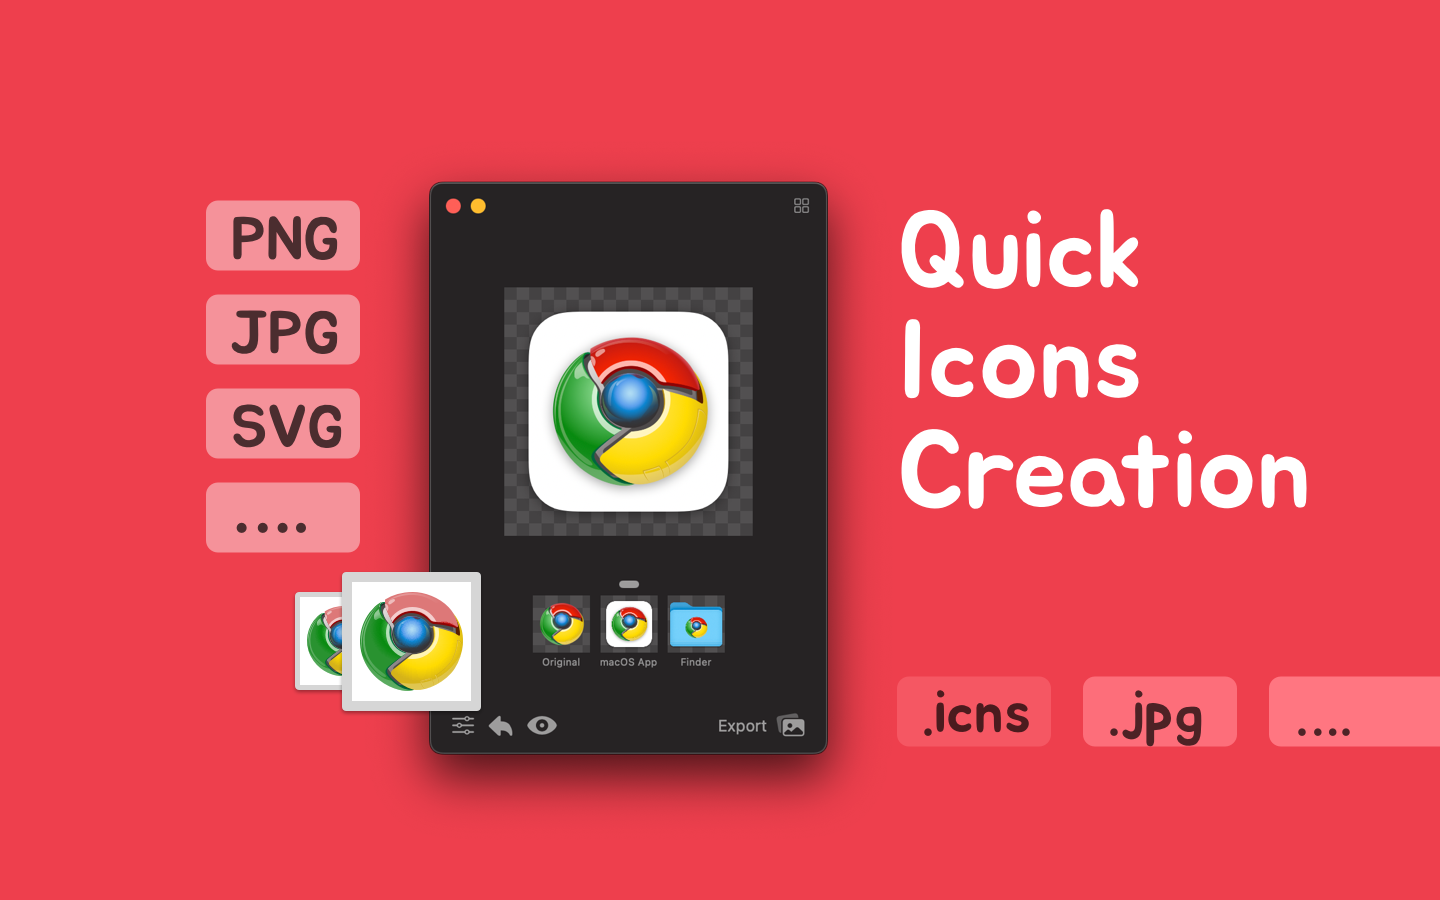
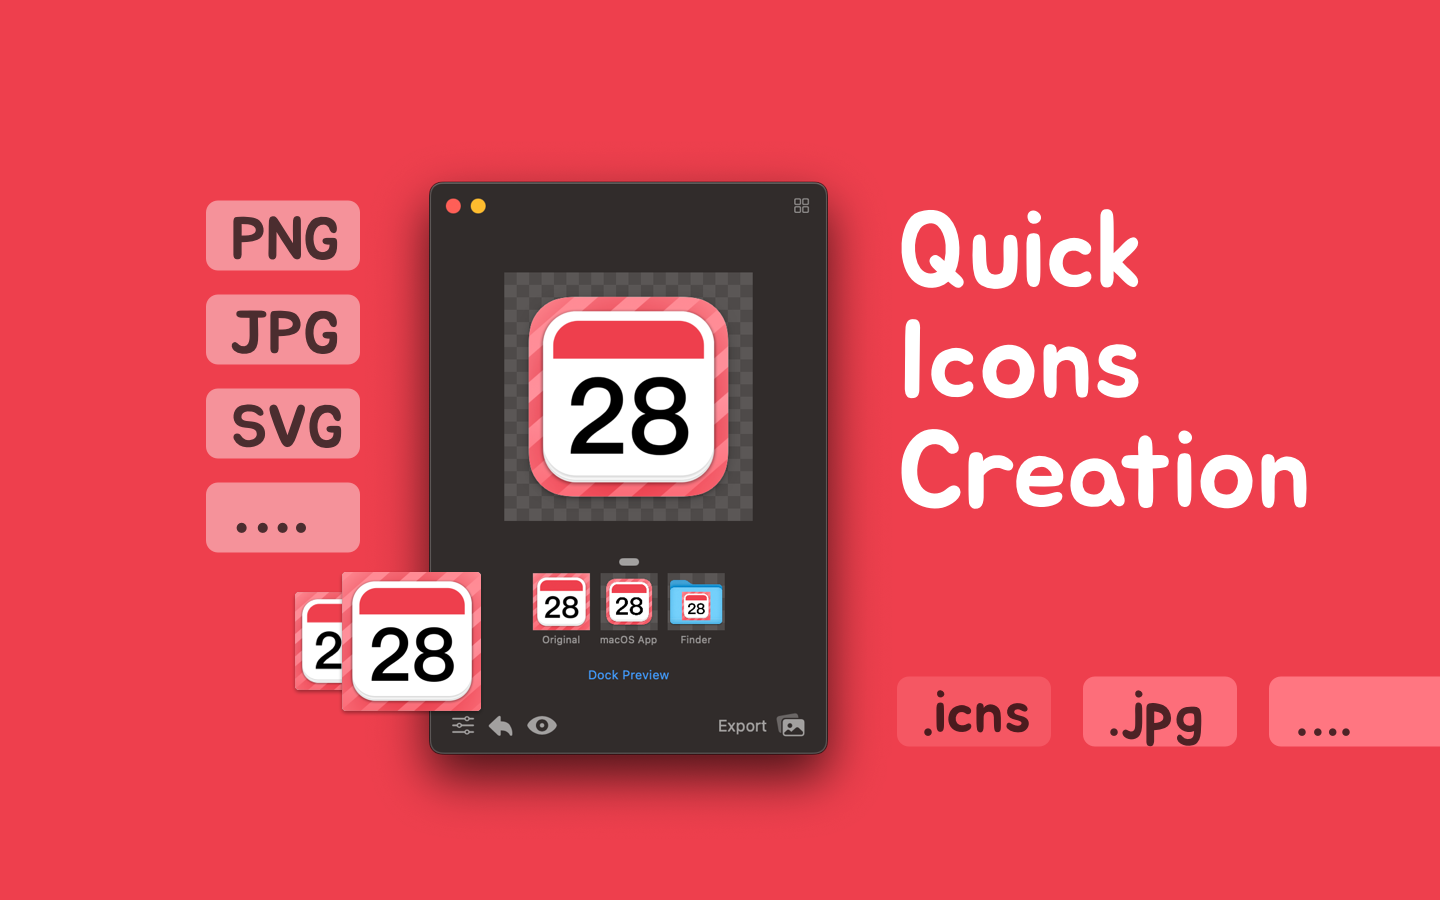
released v1.2.0

Changed region(s): [[0.1875, 0.28, 0.5312, 0.8089]]

diff --git a/README.md b/README.md
@@ -26,13 +26,13 @@
 
 ![Iconed 4](./assets/screenshots-4.png)
 
-Easily create and personalize icons from images, supporting macOS and iOS icon generation, folder icon creation and setting, and providing icon format conversion features.
+Effortlessly create and personalize icons from images, supporting macOS and iOS icon generation, folder icon creation and setting, and icon format conversion features.
 
-- **Folder Icons**: Quickly customize and set your folder icons with simple operations, making your folders more personalized and unique.
-- **App Icons**: Compatible with all operating systems, supporting the import of any image and converting it into a complete, usable app icon. Specifically tailored for Apple platforms (iOS and macOS), supporting various required icon formats to meet different application scenarios.
-- **Icon Format Conversion**: Easily convert icons to other formats, supporting common icon formats such as PNG, JPEG, TIFF, etc., making it convenient to switch between different platforms.
+- **Folder Icons**: Quickly customize and set your folder icons through simple operations, making your folders more personalized and unique.
+- **Application Icons**: Support importing any image and converting it into complete, usable application icons with Dock preview. Specially adapted for Apple platforms (iOS and macOS), supporting various required icon formats to meet different application scenarios.
+- **Icon Format Conversion**: Easily convert icons to other formats, supporting common icon formats such as PNG, JPEG, TIFF, etc., allowing you to switch between different platforms effortlessly.
 
-This tool helps you create any type of icon for your application, automatically converting it to the required 1x, 2x (retina), and 3x formats, and generating a complete image set to ensure perfect display on all devices and resolutions.
+This tool helps you create any icons for applications, automatically converting them into required 1x, 2x (Retina), and 3x formats, and generating a complete image set to ensure perfect display on all devices and resolutions.
 
 ## URL Scheme
 

diff --git a/README.zh.md b/README.zh.md
@@ -29,7 +29,7 @@
 轻松从图片创建和个性化图标，支持 macOS 和 iOS 图标生成、文件夹图标创建与设置，并提供图标格式转换功能。
 
 - **文件夹图标**：通过简单的操作，快速自定义并设置您的文件夹图标，让您的文件夹更加个性化和独特。
-- **应用程序图标**：兼容所有操作系统，支持将任意图像导入并转换为完整、可用的应用程序图标。特别适配 Apple 平台（iOS 和 macOS），支持各种所需图标格式，满足不同应用场景。
+- **应用程序图标**：支持将任意图像导入并转换为完整、可用的应用程序图标，并且可以在 Dock 上预览。特别适配 Apple 平台（iOS 和 macOS），支持各种所需图标格式，满足不同应用场景。
 - **图标格式转换**：轻松将图标转换为其他格式，支持常见的图标格式，如 PNG、JPEG、TIFF 等，方便您在不同平台间切换使用。
 
 该工具能帮助您为应用程序创建任何图标，自动转换为所需的 1x、2x（视网膜）和 3x 格式，并生成完整的图像集，确保在所有设备和分辨率下都能完美显示。

diff --git a/CHANGELOG.md b/CHANGELOG.md
@@ -1,0 +1,18 @@
+Changelog
+===
+
+<a target="_blank" href="https://apps.apple.com/app/iconed/id6739444407" title="Iconed for macOS">
+  <img alt="Iconed AppStore" src="https://jaywcjlove.github.io/sb/download/macos.svg" height="51">
+</a>
+
+## [v1.2.0](https://github.com/jaywcjlove/rightmenu-master/releases)
+
+1. 特性: 添加 macOS 图标预览功能。
+2. 特性: 添加复制和导出图像功能。
+3. 特性: 更新中文本地化。
+
+---
+
+1. feat: Add macOS icon preview functionality.
+2. feat: Add copy and export image functionality.
+3. feat: Update Chinese localizable.
